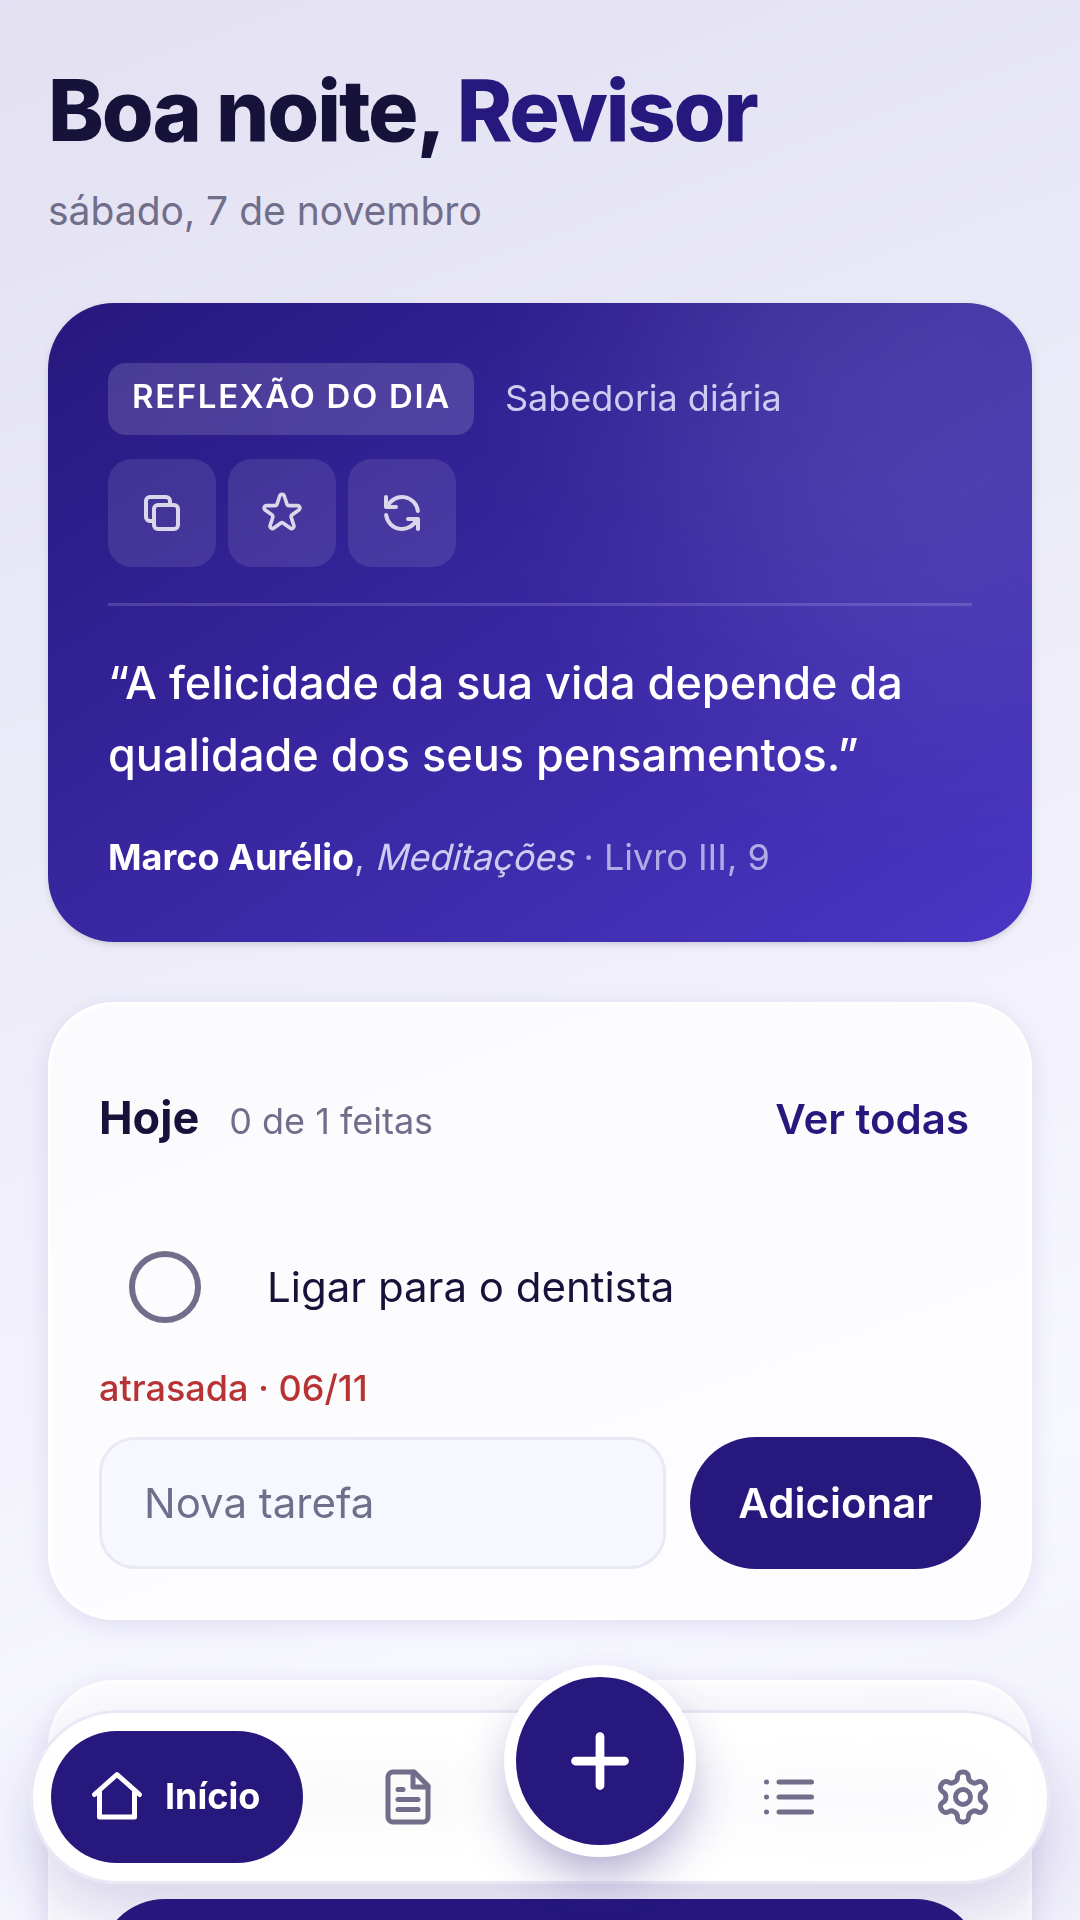
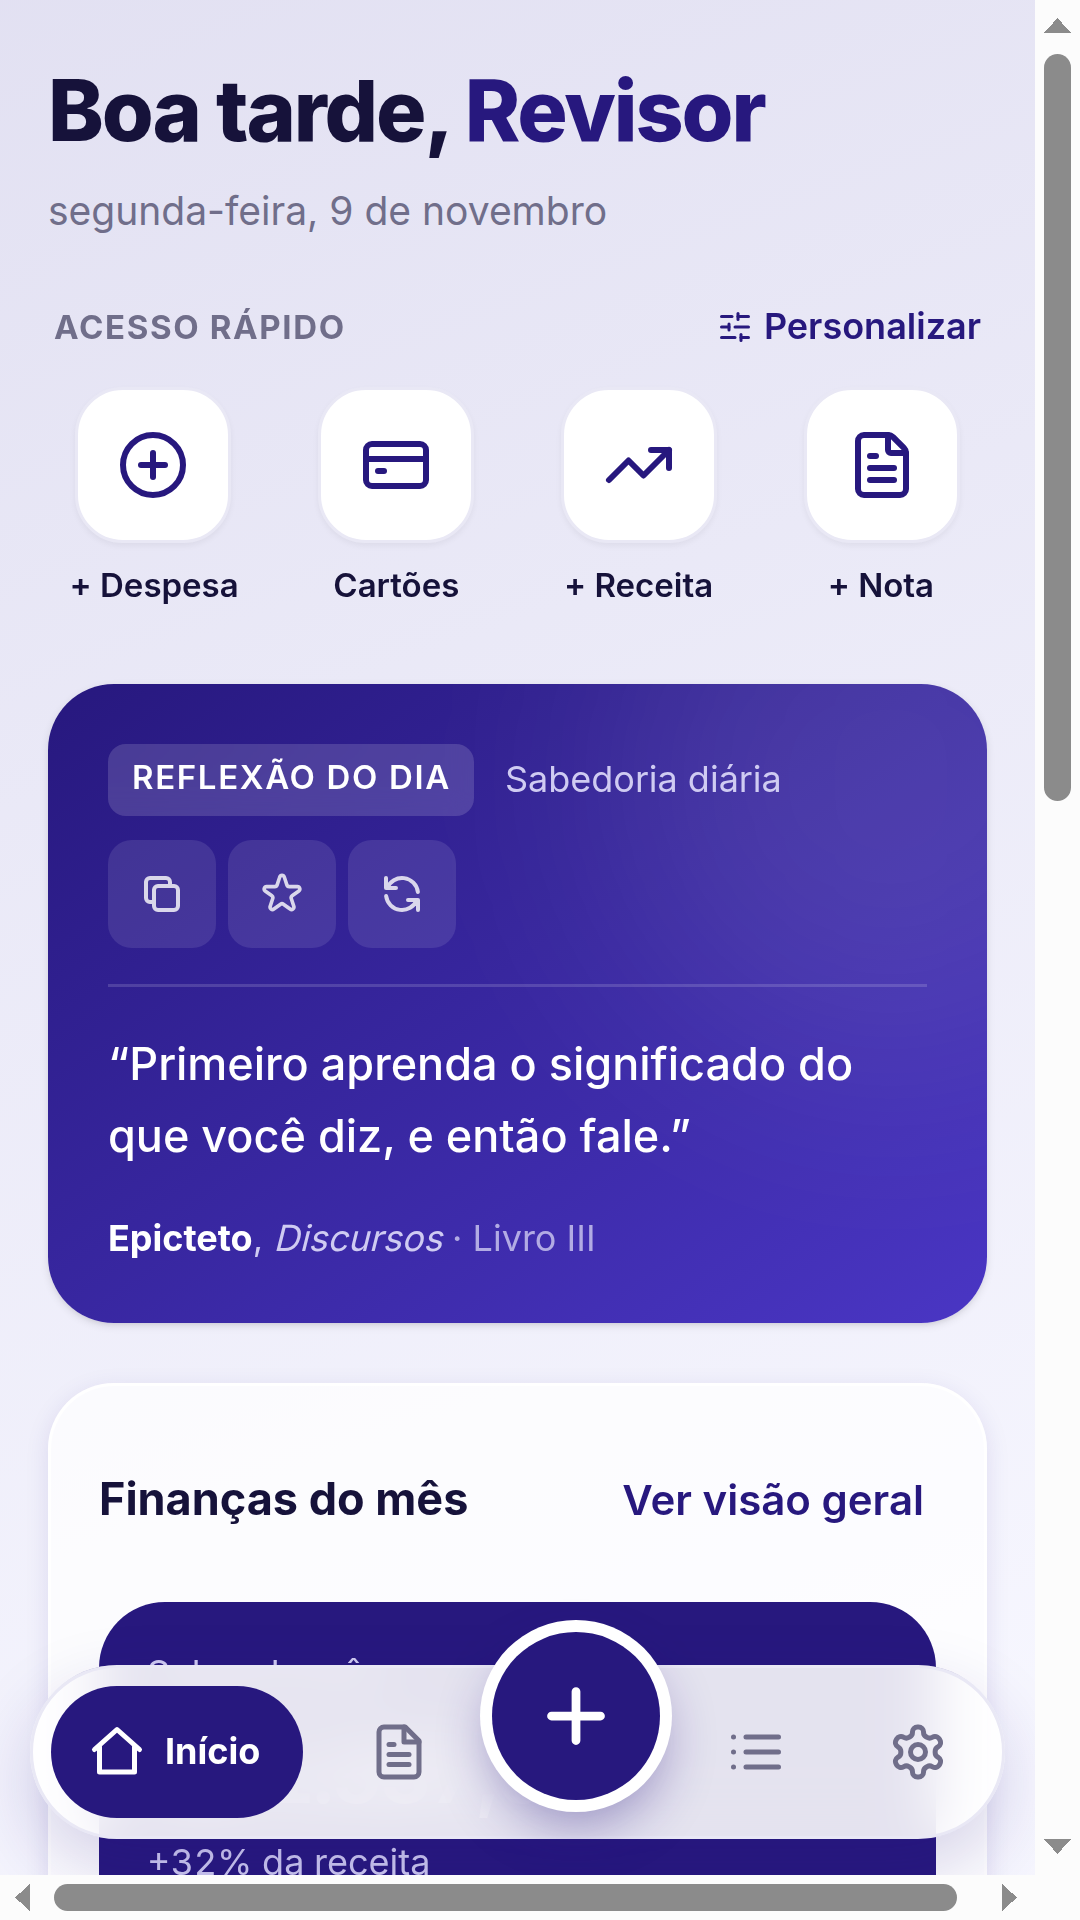
docs(play-store): atualizar ficha da loja e prints sem tarefas e projetos

diff --git a/docs/play-store/ficha-da-loja.md b/docs/play-store/ficha-da-loja.md
@@ -11,24 +11,24 @@ Arquivos desta pasta: `icone-512.png` (ícone do app, 512x512) e `imagem-de-dest
 | Nome do app (até 30 caracteres) | `Aprumo` |
 | Tipo | Aplicativo |
 | Grátis ou pago | Grátis |
-| Categoria | Finanças (alternativa: Produtividade) |
+| Categoria | Finanças |
 | Contato (e-mail público) | `aprumo.assistente@gmail.com` |
 | Site | `https://app.useaprumo.com.br` |
 | Política de privacidade | `https://app.useaprumo.com.br/privacidade` |
 | Package name | `br.com.useaprumo.app` (não muda depois de publicado) |
 
-Sobre a categoria: o app registra valores digitados à mão, então "Finanças" é a descrição honesta. Ela dispara a "Declaração de recursos financeiros" (seção 6). Se preferir evitar essa declaração, "Produtividade" também descreve o app, que reúne finanças, tarefas, notas e projetos.
+Sobre a categoria: o app registra valores digitados à mão, então "Finanças" é a descrição honesta. Ela dispara a "Declaração de recursos financeiros" (seção 6).
 
 ## 2. Descrição curta (até 80 caracteres)
 
 ```
-Finanças, tarefas, notas e projetos em um só lugar, sem planilha.
+Suas finanças em ordem e suas notas à mão, sem planilha.
 ```
 
 ## 3. Descrição completa (até 4000 caracteres)
 
 ```
-O Aprumo é o seu assistente pessoal para manter a vida em ordem: finanças, tarefas, notas e projetos no mesmo lugar, sem planilha.
+O Aprumo organiza suas finanças pessoais com clareza e mantém suas anotações à mão, sem planilha.
 
 QUANTO SOBRA NO MÊS?
 Ao abrir, o Aprumo responde duas perguntas: quanto sobra no mês e onde você está gastando mais. Veja receitas e despesas, o gráfico do ano (a parte prevista aparece listrada) e as próximas contas, com as atrasadas em destaque.
@@ -40,17 +40,11 @@ FINANÇAS
 • Categorias: crie, renomeie, reordene e arquive itens.
 • Relatórios: o ano inteiro em itens por mês, com totais e diferença de caixa.
 
-TAREFAS
-Liste o que precisa fazer, marque o que foi concluído e acompanhe o dia.
-
 NOTAS
 Escreva e organize anotações com formatação, e fixe a mais importante no topo.
 
-PROJETOS
-Organize o que está em andamento num quadro kanban, com subtarefas.
-
 FEITO PARA O CELULAR
-Navegação por uma barra inferior, botão de criação rápida para nota, conta e tarefa, tema claro e escuro.
+Navegação por uma barra inferior, botão de criação rápida para nota, receita e despesa, tema claro e escuro.
 
 SUA CONTA, SEUS DADOS
 • Entre com e-mail e senha ou com a sua conta Google.
@@ -66,7 +60,7 @@ Dúvidas ou sugestões: aprumo.assistente@gmail.com
 ## 4. Notas da versão (até 500 caracteres)
 
 ```
-Primeira versão do Aprumo: finanças (lançamentos, cartões, categorias e relatórios), tarefas, notas e projetos, com navegação pensada para o celular, tema claro e escuro e exclusão de conta dentro do app.
+Primeira versão do Aprumo: finanças (lançamentos, cartões, categorias e relatórios) e anotações, com navegação pensada para o celular, tema claro e escuro e exclusão de conta dentro do app.
 ```
 
 ## 5. Imagens
@@ -77,7 +71,7 @@ Primeira versão do Aprumo: finanças (lançamentos, cartões, categorias e rela
 | Imagem de destaque | `imagem-de-destaque-1024x500.png` | PNG ou JPEG 1024x500, até 15 MB |
 | Prints de celular | a gerar | mínimo 2, máximo 8; proporção 16:9 a 9:16, lado menor de 320 a 3840 px |
 
-Prints sugeridos (conta de revisor, dados de exemplo, nunca dados reais): Início com a sobra do mês; Lançamentos; Cartões; Tarefas; Notas.
+Prints sugeridos (conta de revisor, dados de exemplo, nunca dados reais): Início com a sobra do mês; Lançamentos; Cartões; Relatórios; Notas.
 
 ## 6. Declarações do app
 
@@ -85,7 +79,7 @@ Prints sugeridos (conta de revisor, dados de exemplo, nunca dados reais): Iníci
 O app exige login. Marque "Restrito" e preencha as instruções com o texto abaixo; o e-mail e a senha da conta de revisor vão só no campo de credenciais da Play Console.
 
 ```
-Para entrar, use o e-mail e a senha informados no campo de credenciais. Depois do login, o app abre no Início. Toque em "Finanças" para ver lançamentos, cartões e relatórios, e use o botão "+" para criar nota, conta ou tarefa. A exclusão de conta fica no menu lateral (ícone de menu no topo), em "Excluir conta".
+Para entrar, use o e-mail e a senha informados no campo de credenciais. Depois do login, o app abre no Início. Toque em "Finanças" para ver lançamentos, cartões e relatórios, e use o botão "+" para criar nota, receita ou despesa. A exclusão de conta fica no menu lateral (ícone de menu no topo), em "Excluir conta".
 ```
 
 ### Anúncios
@@ -112,7 +106,7 @@ Coerente com `https://app.useaprumo.com.br/privacidade` (seções 2, 4 e 7).
 | Informações pessoais: endereço de e-mail | Sim | Não | Funcionamento do app, gerenciamento da conta | Não |
 | Informações pessoais: IDs de usuário (identificador do Google, quando entra com Google) | Sim | Não | Gerenciamento da conta | Sim |
 | Informações financeiras: outras informações financeiras (lançamentos, cartões, valores que a pessoa digita) | Sim | Não | Funcionamento do app | Não |
-| Atividade no app: outro conteúdo gerado pelo usuário (tarefas, notas, projetos) | Sim | Não | Funcionamento do app | Não |
+| Atividade no app: outro conteúdo gerado pelo usuário (notas) | Sim | Não | Funcionamento do app | Não |
 | Registros de falhas (mensagem técnica do erro, trecho do código e tela em que ocorreu, sem parâmetros nem números de registro; e-mails e códigos removidos antes do envio; ficam nos logs do provedor da API, pelo prazo dele) | Sim | Não | Funcionalidade do app, análise | Não |
 
 Não coletados: localização, contatos, mensagens, fotos e vídeos, áudio, arquivos, calendário, saúde, histórico de navegação, identificadores de dispositivo e de publicidade.
